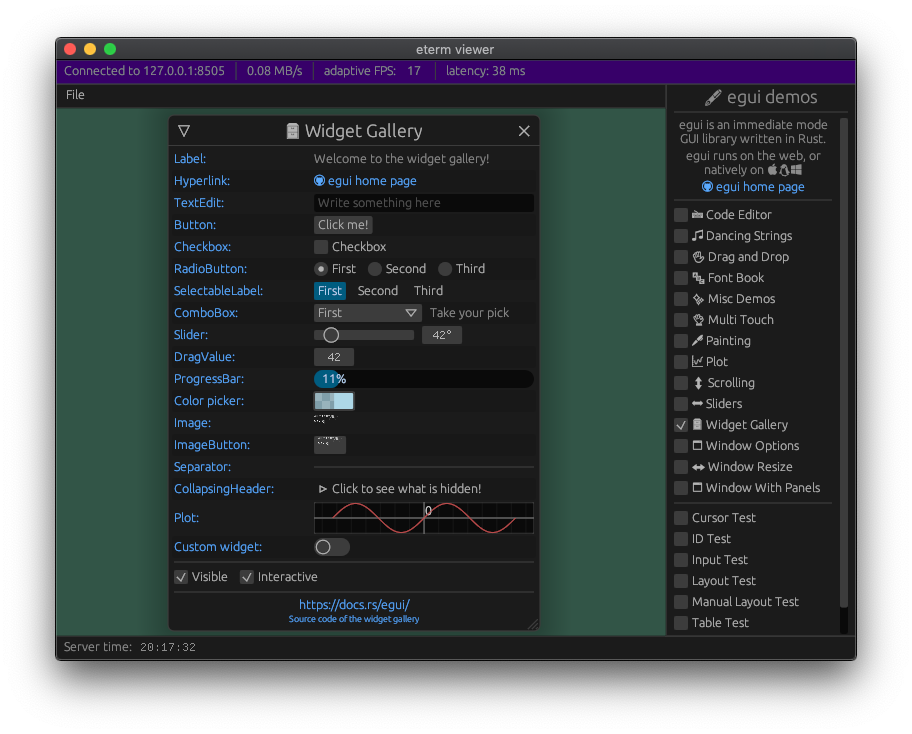
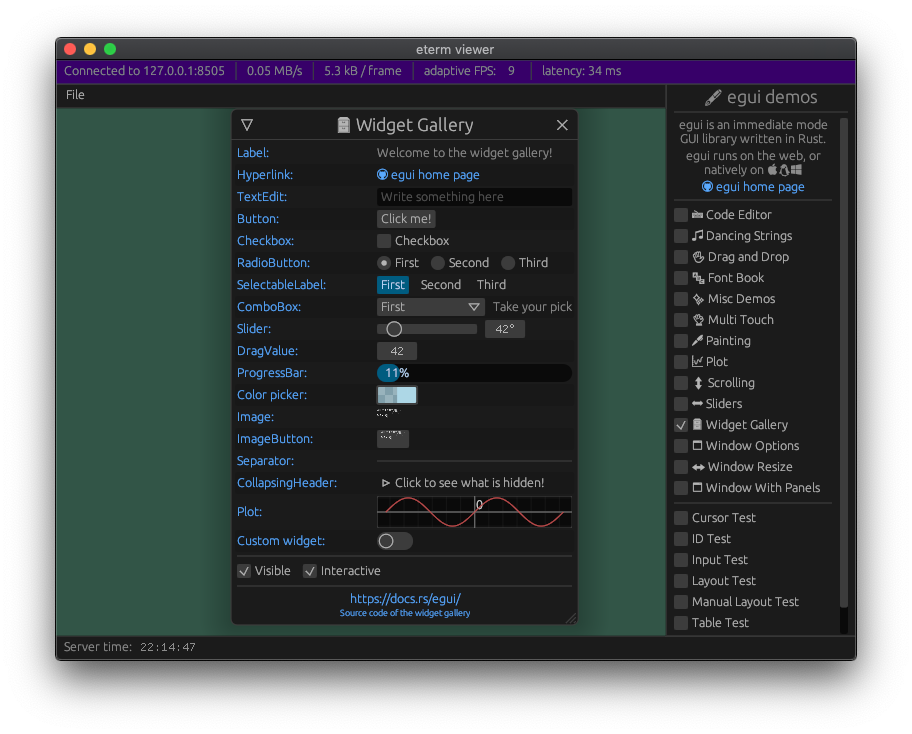
show average frame size

Changed region(s): [[0.1842, 0.1499, 0.6447, 0.8692], [0.3684, 0.0899, 0.6754, 0.1199]]

diff --git a/eterm/src/client.rs b/eterm/src/client.rs
@@ -21,6 +21,7 @@ pub struct Client {
     latest_frame: Option<EguiFrame>,
 
     bandwidth_history: Arc<Mutex<History<f32>>>,
+    frame_size_history: Arc<Mutex<History<f32>>>,
     latency_history: History<f32>,
     frame_history: History<()>,
 }
@@ -41,6 +42,7 @@ impl Client {
         let alive = Arc::new(AtomicBool::new(true));
         let connected = Arc::new(AtomicBool::new(false));
         let mut bandwidth_history = Arc::new(Mutex::new(History::new(0..200, 2.0)));
+        let mut frame_size_history = Arc::new(Mutex::new(History::new(1..100, 0.5)));
 
         let (outgoing_msg_tx, mut outgoing_msg_rx) = mpsc::channel();
         let (mut incoming_msg_tx, incoming_msg_rx) = mpsc::channel();
@@ -55,6 +57,7 @@ impl Client {
             fonts: None,
             latest_frame: Default::default(),
             bandwidth_history: bandwidth_history.clone(),
+            frame_size_history: frame_size_history.clone(),
             latency_history: History::new(1..100, 1.0),
             frame_history: History::new(2..100, 1.0),
         };
@@ -71,6 +74,7 @@ impl Client {
                             &mut outgoing_msg_rx,
                             &mut incoming_msg_tx,
                             &mut bandwidth_history,
+                            &mut frame_size_history,
                         ) {
                             log::info!(
                                 "Connection lost: {}",
@@ -113,7 +117,12 @@ impl Client {
 
     /// Estimated bandwidth use (downstream).
     pub fn bytes_per_second(&self) -> f32 {
-        self.bandwidth_history.lock().sum_over_time().unwrap_or(0.0)
+        self.bandwidth_history.lock().bandwidth().unwrap_or(0.0)
+    }
+
+    /// Estimated size of one frame packet
+    pub fn average_frame_packet_size(&self) -> Option<f32> {
+        self.frame_size_history.lock().average()
     }
 
     /// Smoothed round-trip-time estimate in seconds.
@@ -181,7 +190,9 @@ impl Client {
         fonts.end_frame(); // make sure to evict galley cache
 
         self.bandwidth_history.lock().flush(now());
+        self.frame_size_history.lock().flush(now());
         self.latency_history.flush(now());
+        self.frame_history.flush(now());
 
         self.latest_frame.take()
     }
@@ -196,6 +207,7 @@ fn run(
     outgoing_msg_rx: &mut mpsc::Receiver<ClientToServerMessage>,
     incoming_msg_tx: &mut mpsc::Sender<ServerToClientMessage>,
     bandwidth_history: &mut Arc<Mutex<History<f32>>>,
+    frame_size_history: &mut Arc<Mutex<History<f32>>>,
 ) -> anyhow::Result<()> {
     use anyhow::Context as _;
 
@@ -221,6 +233,9 @@ fn run(
         while let Some(packet) = tcp_endpoint.try_receive_packet().context("receive")? {
             bandwidth_history.lock().add(now(), packet.len() as f32);
             let message = crate::decode_message(&packet).context("decode")?;
+            if let ServerToClientMessage::Frame { .. } = &message {
+                frame_size_history.lock().add(now(), packet.len() as f32);
+            }
             incoming_msg_tx.send(message)?;
         }
 

diff --git a/eterm_viewer/src/main.rs b/eterm_viewer/src/main.rs
@@ -246,10 +246,15 @@ fn client_info_bar(ui: &mut egui::Ui, client: &eterm::Client) {
         ui.separator();
         ui.label(format!("{:.2} MB/s", client.bytes_per_second() * 1e-6));
         ui.separator();
+        ui.label(format!(
+            "{:5.1} kB / frame",
+            client.average_frame_packet_size().unwrap_or(0.0) * 1e-3
+        ));
+        ui.separator();
         ui.label("adaptive FPS:");
         let fps = client.adaptive_fps().unwrap_or(0.0);
         ui.add_sized(
-            [20.0, ui.available_height()],
+            [16.0, ui.available_height()],
             egui::Label::new(format!("{:.0}", fps)),
         );
         ui.separator();
